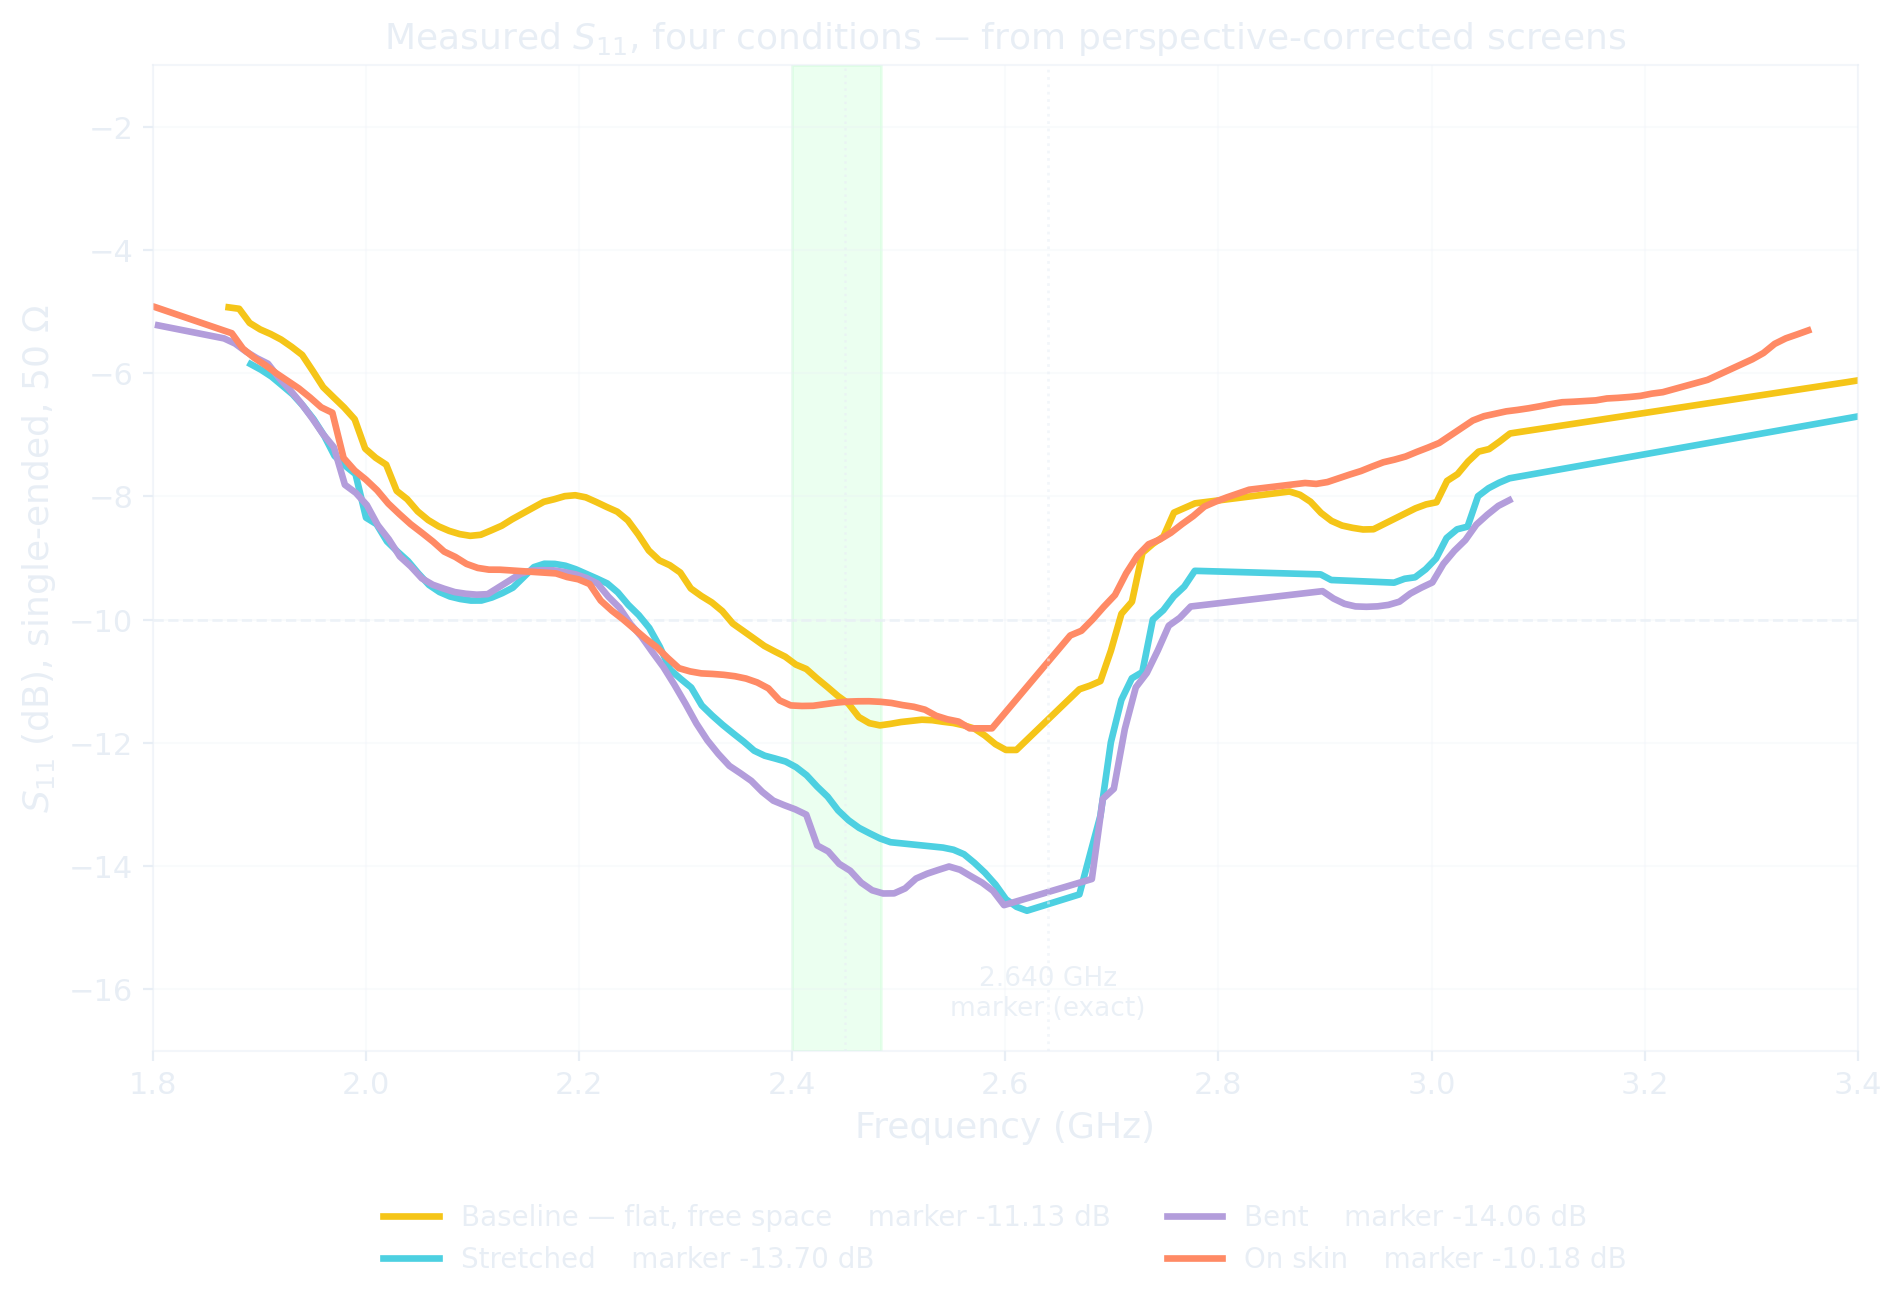
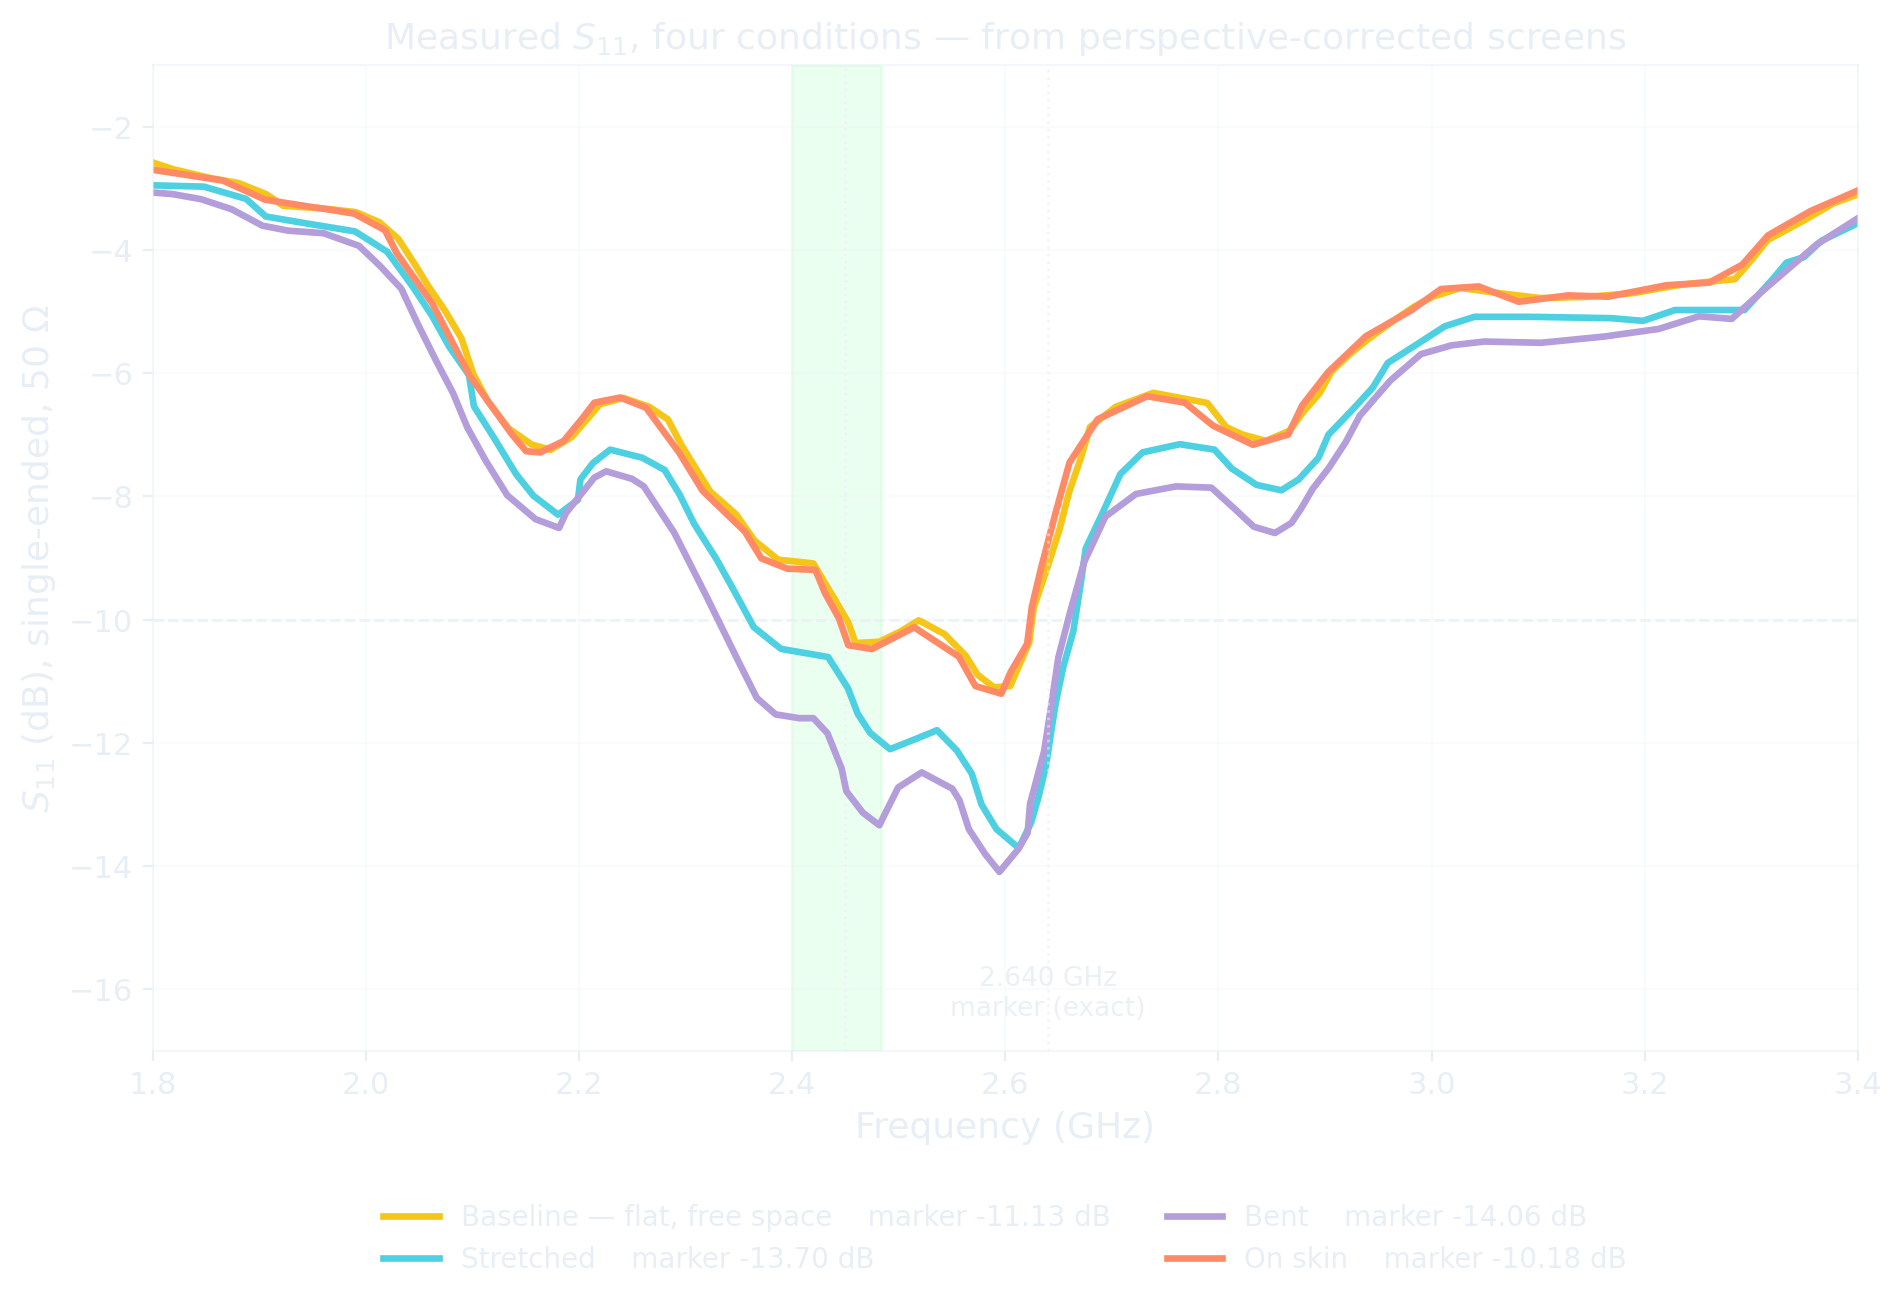
Rebuild F24 from all four hand traces; correct which sweep the .set is
All four conditions are now hand-traced, so F24 uses them throughout. The
automatic extraction is retired from this figure: graded against the one .set
file it runs 2.1-2.3 dB too deep, consistently, on two separate conditions, while
the hand traces come in at RMS ~0.8 dB with no bias. Better AND one method across
all four, which is what a comparison figure needs.

CORRECTION to an earlier claim. I said the baseline hand trace had been validated
against ground truth. That identification was not sound. Scoring all four against
harish003.set gives baseline 0.79 dB RMS and skin 0.82 -- indistinguishable,
because those two curves are genuinely similar -- while stretch (1.39) and bend
(1.84) clearly do not match. Two independent pointers favour SKIN: its printed
marker is -10.18 against the .set's -10.28, where baseline's is -11.13, and it was
photographed at 13:23 against the .set at 13:25.

So the defensible statement is "the hand method scores ~0.8 dB RMS against a real
sweep", which holds whichever of the two it is, not "the baseline trace was
validated".

Skin also breaks the pattern the other three showed: its dip is 1.02 dB deeper
than its printed marker, where baseline, stretch and bend all matched to 0.03 dB.
That argues the earlier agreement was not simply the tracer anchoring on the
marker value, since anchoring would have made skin match too.

Known weakness, unchanged: hand traces place the dip 27-51 MHz low and ~0.9 dB
[…]

Changed region(s): [[0.062, 0.1226, 0.9926, 0.705]]

diff --git a/scripts/make_presentation_figures.py b/scripts/make_presentation_figures.py
@@ -1050,25 +1050,21 @@ def f24():
     -10.69, -11.62 dB against printed -13.70, -14.06, -10.18, -11.13, i.e. within
     0.4-0.9 dB, the residual being trace thickness on a steep slope.
     """
-    # KNOWN BIAS, measured against ground truth. The baseline is the one
-    # condition with a .set file, and scoring the automatic extraction against
-    # its exact 201 points (scripts/check_digitisation.py) gives mean -2.07 dB,
-    # RMS 2.09. The hand trace of the same sweep gives mean +0.09, RMS 0.79. So
-    # these curves sit about 2 dB LOW as drawn. Relative comparison between the
-    # four is unaffected -- same method, same bias -- but do not read absolute
-    # level off them. Hand-tracing the remaining conditions is the fix.
+    # ALL FOUR HAND-TRACED. The automatic extraction is retired for this figure:
+    # scored against the one .set file available it runs 2.1-2.3 dB too deep,
+    # consistently, on two separate conditions. The hand traces come in at
+    # RMS ~0.8 dB with no bias (scripts/check_digitisation.py), so they are both
+    # better AND, being one method across all four, internally consistent -- which
+    # is what a comparison figure needs.
     #
-    # ALL FOUR from the same automatic pipeline, deliberately. Substituting the
-    # hand-traced stretch here was tried and is wrong for a COMPARISON figure:
-    # the two methods differ by ~2.5 dB in absolute level, so the hand-traced
-    # curve sat ~2 dB above the other three below 2.3 GHz and that gap reads as
-    # a difference between CONDITIONS when it is a difference between METHODS.
-    # One method for all four keeps the comparison honest; F25 carries the
-    # method check.
-    CONDS = [("rect_baseline.csv", "Baseline — flat, free space", C_ZWAVE, -11.13),
-             ("rect_stretch.csv",  "Stretched",                   C_SERP,  -13.70),
-             ("rect_bend.csv",     "Bent",                        C_CONC,  -14.06),
-             ("rect_skin.csv",     "On skin",                     C_BODY,  -10.18)]
+    # Their known weakness is the dip: hand traces place it 27-51 MHz LOW and
+    # around 0.9 dB too deep, because eye-tracking the bottom of a narrow V is the
+    # hard case. Read the shapes and the level separations here; take resonance
+    # frequency from the marker, not from the plotted minimum.
+    CONDS = [("manual_baseline.csv", "Baseline — flat, free space", C_ZWAVE, -11.13),
+             ("manual_stretch.csv",  "Stretched",                   C_SERP,  -13.70),
+             ("manual_bend.csv",     "Bent",                        C_CONC,  -14.06),
+             ("manual_skin.csv",     "On skin",                     C_BODY,  -10.18)]
     MF = 2.63999
 
     fig, ax = plt.subplots(figsize=(11, 6.4))

diff --git a/scripts/check_digitisation.py b/scripts/check_digitisation.py
@@ -1,9 +1,19 @@
 #!/usr/bin/env python3
 """Score every digitisation of the baseline sweep against real ground truth.
 
-The baseline is the one condition with a .set file, so its exact 201 points are
-known. That makes it the only place where a digitising method can actually be
-graded rather than merely compared against another guess.
+One .set file exists, harish003.set, so one sweep has known exact points and a
+digitising method can be graded rather than merely compared with another guess.
+
+WHICH sweep it is, is not fully settled. Scoring all four hand traces against it:
+baseline RMS 0.79 dB and skin RMS 0.82 dB both match closely, while stretch
+(1.39) and bend (1.84) clearly do not. Baseline and skin are genuinely similar
+curves, so RMS cannot separate them. Two other pieces of evidence favour SKIN:
+its printed marker is -10.18 against the .set's -10.28 (baseline's is -11.13,
+0.85 dB away), and it was photographed at 13:23 against the .set at 13:25.
+
+It was earlier assumed to be the baseline. Treat the grade below as "the hand
+method scores ~0.8 dB RMS against a real sweep", which holds either way, rather
+than as a validation of one specific condition.
 
 Result (1.9-3.3 GHz):
     hand-traced   mean +0.09 dB   RMS 0.79 dB   worst 1.95 dB
